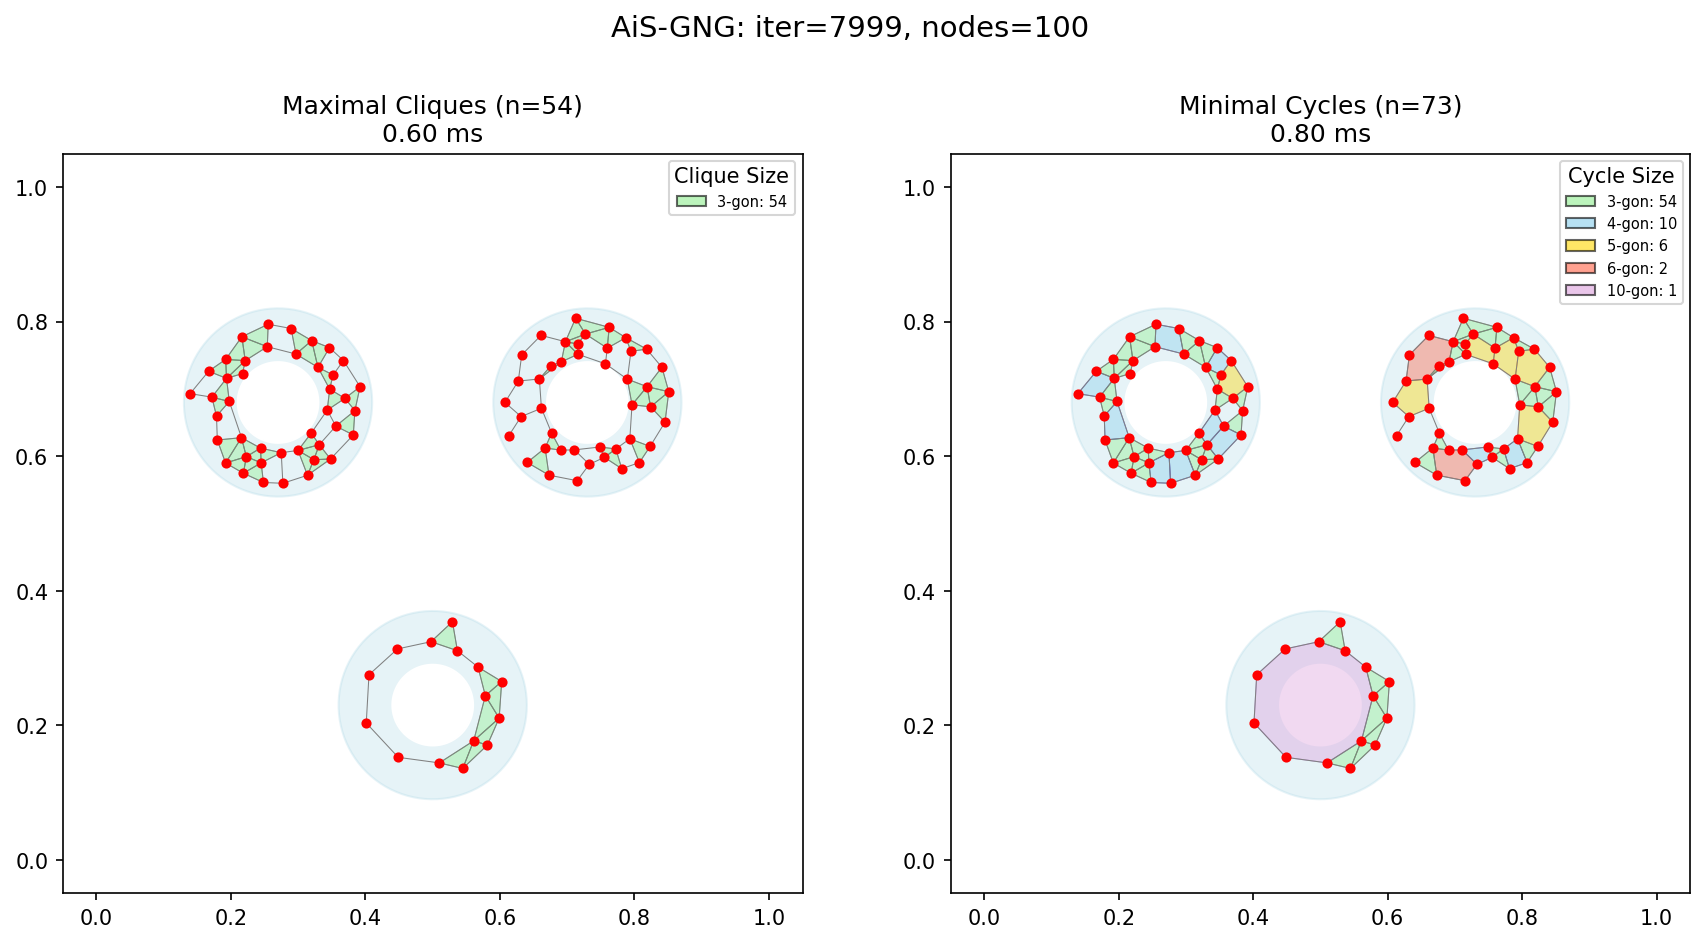
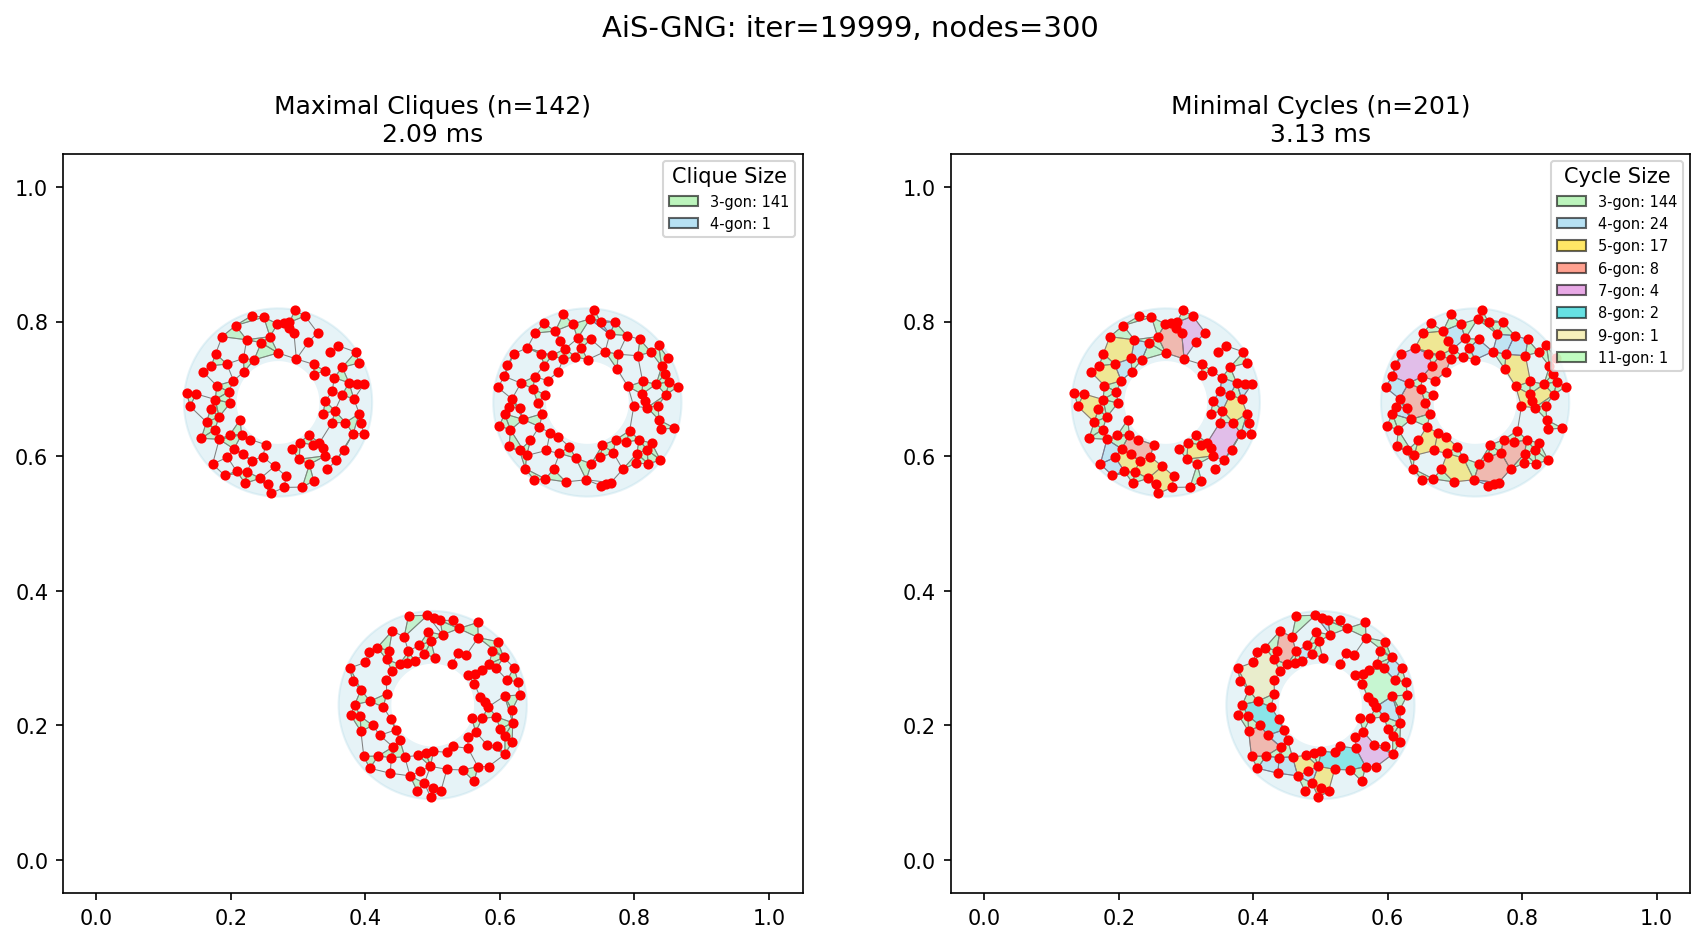
Update AiS-GNG minimal cycle test to 300 nodes
Results with 300 nodes:
- Maximal cliques: 142 (141 K3, 1 K4), 2.58 ms
- Minimal cycles: 201 (3-11 gons), 3.38 ms
  - Max detected: 11-gon

https://claude.ai/code/session_017b5qWg6pcPoRsVDBckwGdS

diff --git a/experiments/polygon_filling/test_aisgng_minimal_cycles.py b/experiments/polygon_filling/test_aisgng_minimal_cycles.py
@@ -205,7 +205,7 @@ def main():
     print("  → {max_cycle_size}角形までを検出対象とする")
 
     params = AiSGNGParams(
-        max_nodes=100,
+        max_nodes=300,
         lambda_=100,
         kappa=10,
         eps_b=0.05,
@@ -218,7 +218,7 @@ def main():
         theta_ais_min=0.015,
         theta_ais_max=0.06,
     )
-    n_iterations = 8000
+    n_iterations = 20000
     n_samples = 1500
     seed = 42
 
